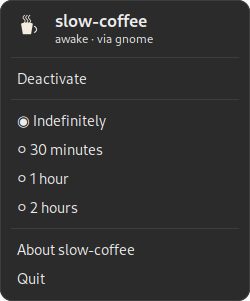
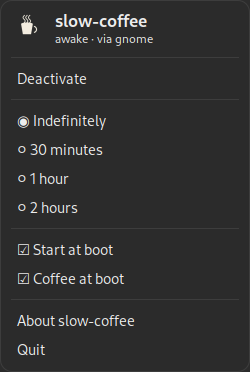
feat: Start-at-boot and Coffee-at-boot tray toggles
Two CheckMenuItems that configure the next login:
- Start at boot writes/removes the autostart .desktop entry (its presence
  is the source of truth, so the checkbox never drifts).
- Coffee at boot decides whether an autostarted launch boots caffeinated
  or decaf, rewriting the entry's Exec line; persisted in
  ~/.config/slow-coffee/settings.json and seeded from any pre-existing
  autostart entry on first run.

Lift APP_ID to the package __init__ to break the new indicator<->desktop
import cycle. Refactor the .desktop body into a shared builder so the
autostart copy can carry --start-inactive. Bump to 1.1.0.

diff --git a/slow_coffee/desktop.py b/slow_coffee/desktop.py
@@ -9,23 +9,32 @@ import os
 import shutil
 from os.path import join, dirname, abspath, exists
 
-from .indicator import APP_ID
+from . import APP_ID
 
-DESKTOP_BODY = """\
-[Desktop Entry]
-Type=Application
-Name=Slow Coffee
-GenericName=Keep Awake
-Comment=Keep your screen awake - on by default, sip at your own pace
-Exec=slow-coffee
-Icon=slow-coffee
-Terminal=false
-Categories=Utility;GTK;
-Keywords=caffeine;caffeinate;awake;idle;screensaver;inhibit;presentation;
-StartupNotify=false
-"""
 
-AUTOSTART_EXTRA = "X-GNOME-Autostart-enabled=true\n"
+def _desktop_body(exec_cmd="slow-coffee", autostart=False):
+    """Build a .desktop entry. ``exec_cmd`` lets the autostart copy encode
+    "coffee at boot" (``slow-coffee`` vs ``slow-coffee --start-inactive``)."""
+    lines = [
+        "[Desktop Entry]",
+        "Type=Application",
+        "Name=Slow Coffee",
+        "GenericName=Keep Awake",
+        "Comment=Keep your screen awake - on by default, sip at your own pace",
+        "Exec=" + exec_cmd,
+        "Icon=slow-coffee",
+        "Terminal=false",
+        "Categories=Utility;GTK;",
+        "Keywords=caffeine;caffeinate;awake;idle;screensaver;inhibit;presentation;",
+        "StartupNotify=false",
+    ]
+    if autostart:
+        lines.append("X-GNOME-Autostart-enabled=true")
+    return "\n".join(lines) + "\n"
+
+
+def _autostart_exec(start_active):
+    return "slow-coffee" if start_active else "slow-coffee --start-inactive"
 
 
 def _xdg(*parts):
@@ -42,7 +51,46 @@ def _src_icon():
     return join(dirname(abspath(__file__)), "icons", "slow-coffee-full.png")
 
 
-def install(autostart=False):
+def autostart_path():
+    """Where the "start at login" entry lives (its presence == start-at-boot on)."""
+    return _config("autostart", "slow-coffee.desktop")
+
+
+def autostart_enabled():
+    return exists(autostart_path())
+
+
+def autostart_start_active():
+    """Read whether the existing autostart entry boots caffeinated.
+
+    Parsed from its ``Exec`` line (no ``--start-inactive`` == caffeinated).
+    Defaults to True when there is no entry to read.
+    """
+    try:
+        with open(autostart_path()) as f:
+            for line in f:
+                if line.startswith("Exec="):
+                    return "--start-inactive" not in line
+    except OSError:
+        pass
+    return True
+
+
+def set_autostart(enabled, start_active=True):
+    """Create or remove the autostart entry. When creating, ``start_active``
+    picks the Exec line so the next login honours "coffee at boot".
+    Returns the path touched."""
+    path = autostart_path()
+    if enabled:
+        os.makedirs(dirname(path), exist_ok=True)
+        with open(path, "w") as f:
+            f.write(_desktop_body(exec_cmd=_autostart_exec(start_active), autostart=True))
+    elif exists(path):
+        os.remove(path)
+    return path
+
+
+def install(autostart=False, start_active=True):
     """Install the launcher + icon (+ optional autostart). Returns paths written."""
     written = []
 
@@ -54,15 +102,11 @@ def install(autostart=False):
     desktop_dst = _xdg("applications", "slow-coffee.desktop")
     os.makedirs(dirname(desktop_dst), exist_ok=True)
     with open(desktop_dst, "w") as f:
-        f.write(DESKTOP_BODY)
+        f.write(_desktop_body())
     written.append(desktop_dst)
 
     if autostart:
-        auto_dst = _config("autostart", "slow-coffee.desktop")
-        os.makedirs(dirname(auto_dst), exist_ok=True)
-        with open(auto_dst, "w") as f:
-            f.write(DESKTOP_BODY + AUTOSTART_EXTRA)
-        written.append(auto_dst)
+        written.append(set_autostart(True, start_active=start_active))
 
     # refresh the menu cache if the tool is around (best-effort)
     try:

diff --git a/slow_coffee/indicator.py b/slow_coffee/indicator.py
@@ -22,9 +22,8 @@ gi.require_version("Gtk", "3.0")
 gi.require_version("AyatanaAppIndicator3", "0.1")
 from gi.repository import Gtk, Gio, GLib, AyatanaAppIndicator3 as AppIndicator3
 
-from . import __version__
+from . import __version__, APP_ID, desktop, settings
 
-APP_ID = "slow-coffee"
 REASON = "User asked to stay awake (slow-coffee)"
 
 # GNOME SessionManager inhibit flag: 8 = "session marked idle". We deliberately
@@ -138,6 +137,10 @@ class SlowCoffee:
         self.inhibitor = Inhibitor()
         self.timer_id = None
         self.icons = find_icons_dir()
+        # Seed "coffee at boot" from any pre-existing autostart entry so the
+        # checkbox reflects reality on first run rather than clobbering it.
+        self.settings = settings.load(
+            seed={"coffee_at_boot": desktop.autostart_start_active()})
 
         self.ind = AppIndicator3.Indicator.new_with_path(
             APP_ID, "slow-coffee-empty",
@@ -170,6 +173,18 @@ class SlowCoffee:
             item.connect("activate", self.on_pick_duration, mins)
             self.duration_items.append(item)
             menu.append(item)
+
+        menu.append(Gtk.SeparatorMenuItem())
+
+        self.boot_item = Gtk.CheckMenuItem(label="Start at boot")
+        self.boot_item.set_active(desktop.autostart_enabled())
+        self.boot_item.connect("toggled", self.on_toggle_boot)
+        menu.append(self.boot_item)
+
+        self.coffee_boot_item = Gtk.CheckMenuItem(label="Coffee at boot")
+        self.coffee_boot_item.set_active(self.settings["coffee_at_boot"])
+        self.coffee_boot_item.connect("toggled", self.on_toggle_coffee_boot)
+        menu.append(self.coffee_boot_item)
 
         menu.append(Gtk.SeparatorMenuItem())
 
@@ -228,6 +243,19 @@ class SlowCoffee:
     def on_pick_duration(self, item, minutes):
         if item.get_active():
             self.activate(minutes)
+
+    def on_toggle_boot(self, item):
+        # Presence of the autostart entry IS the "start at boot" state; write it
+        # with the Exec line that honours the current "coffee at boot" choice.
+        desktop.set_autostart(item.get_active(),
+                              start_active=self.settings["coffee_at_boot"])
+
+    def on_toggle_coffee_boot(self, item):
+        self.settings["coffee_at_boot"] = item.get_active()
+        settings.save(self.settings)
+        # If we already start at boot, rewrite the entry so the next login obeys.
+        if desktop.autostart_enabled():
+            desktop.set_autostart(True, start_active=item.get_active())
 
     def _selected_minutes(self):
         for item, (_label, mins) in zip(self.duration_items, DURATIONS):

diff --git a/slow_coffee/settings.py b/slow_coffee/settings.py
@@ -1,0 +1,55 @@
+"""Tiny persisted preferences for the tray's boot toggles.
+
+Only one thing needs storing: ``coffee_at_boot`` - whether an autostart launch
+boots caffeinated (cup full) or decaf (``--start-inactive``). The *other* toggle,
+"start at boot", has a better source of truth than a settings key: the presence
+of the autostart ``.desktop`` file itself (see ``desktop.autostart_enabled``), so
+it's never stored here and never drifts from reality.
+
+Stored as JSON under ``$XDG_CONFIG_HOME`` (``~/.config/slow-coffee/settings.json``).
+Written atomically. Missing/corrupt file falls back to the defaults.
+"""
+
+import json
+import os
+from os.path import join, dirname, exists
+
+DEFAULTS = {"coffee_at_boot": True}
+
+
+def path():
+    base = os.environ.get("XDG_CONFIG_HOME") or os.path.expanduser("~/.config")
+    return join(base, "slow-coffee", "settings.json")
+
+
+def load(seed=None):
+    """Return the settings dict (defaults merged with whatever is on disk).
+
+    ``seed`` supplies fallbacks for keys absent from BOTH the file and the
+    defaults' caller intent - used on first run to inherit the state of a
+    pre-existing autostart entry rather than clobbering it with a bare default.
+    """
+    data = {}
+    try:
+        with open(path()) as f:
+            data = json.load(f)
+    except (OSError, ValueError):
+        data = {}
+    merged = dict(DEFAULTS)
+    if seed:
+        merged.update({k: bool(seed[k]) for k in DEFAULTS if k in seed})
+    merged.update({k: bool(data[k]) for k in DEFAULTS if k in data})
+    return merged
+
+
+def save(settings):
+    """Persist the given settings (only known keys), atomically. Returns the merged dict."""
+    p = path()
+    os.makedirs(dirname(p), exist_ok=True)
+    merged = {k: bool(settings.get(k, DEFAULTS[k])) for k in DEFAULTS}
+    tmp = p + ".tmp"
+    with open(tmp, "w") as f:
+        json.dump(merged, f, indent=2)
+        f.write("\n")
+    os.replace(tmp, p)
+    return merged

diff --git a/docs/render_menu.py b/docs/render_menu.py
@@ -78,6 +78,10 @@ def build():
         box.pack_start(lbl(bullet + label, "sc-row", cls), False, False, 0)
 
     box.pack_start(sep(), False, False, 0)
+    box.pack_start(lbl("☑ Start at boot", "sc-row", "sc-row-on"), False, False, 0)
+    box.pack_start(lbl("☑ Coffee at boot", "sc-row", "sc-row-on"), False, False, 0)
+
+    box.pack_start(sep(), False, False, 0)
     box.pack_start(lbl("About slow-coffee", "sc-row", "sc-dim"), False, False, 0)
     box.pack_start(lbl("Quit", "sc-row", "sc-dim"), False, False, 0)
     return box

diff --git a/slow_coffee/__main__.py b/slow_coffee/__main__.py
@@ -55,7 +55,8 @@ def main(argv=None):
 
     if args.install_desktop:
         from . import desktop
-        written = desktop.install(autostart=args.autostart)
+        written = desktop.install(autostart=args.autostart,
+                                  start_active=not args.start_inactive)
         print("Installed:")
         for path in written:
             print("  +", path)

diff --git a/slow_coffee/__init__.py b/slow_coffee/__init__.py
@@ -1,3 +1,7 @@
 """slow-coffee - a take-your-time keep-awake indicator for the system tray."""
 
-__version__ = "1.0.0"
+__version__ = "1.1.0"
+
+# Package identity, shared by the indicator and the desktop-integration helper
+# (kept here to avoid an indicator<->desktop import cycle).
+APP_ID = "slow-coffee"

diff --git a/CHANGELOG.md b/CHANGELOG.md
@@ -4,6 +4,18 @@ All notable changes to slow-coffee are documented here.
 Format follows [Keep a Changelog](https://keepachangelog.com/); versioning is
 [SemVer](https://semver.org/).
 
+## [1.1.0] - 2026-07-07
+
+### Added
+- Two boot toggles in the tray menu: **Start at boot** (writes/removes the
+  autostart `.desktop` entry) and **Coffee at boot** (whether an autostarted
+  launch boots caffeinated or decaf). The checkbox equivalents of `--autostart`
+  and `--start-inactive`.
+- The "coffee at boot" choice persists in `~/.config/slow-coffee/settings.json`;
+  "start at boot" is read from (and written to) the autostart entry itself, so
+  the checkboxes never drift from reality. On first run the "coffee at boot"
+  state is seeded from any pre-existing autostart entry.
+
 ## [1.0.0] - 2026-06-25
 
 First release.
@@ -22,4 +34,5 @@ First release.
   and icon under your XDG dirs, no root required; `--autostart` adds login start.
 - Packaging: PyPI (pip), Arch AUR (PKGBUILD), Debian/Ubuntu (.deb).
 
+[1.1.0]: https://github.com/PLNech/slow-coffee/releases/tag/v1.1.0
 [1.0.0]: https://github.com/PLNech/slow-coffee/releases/tag/v1.0.0

diff --git a/README.md b/README.md
@@ -84,7 +84,15 @@ cup appears in the tray, already caffeinated. Click it for the menu:
 |------|------|
 | Activate / Deactivate | Toggle the inhibitor by hand |
 | Indefinitely / 30 min / 1 h / 2 h | Pick a duration; it auto-stops when time is up |
+| Start at boot | Add/remove the autostart entry - launch slow-coffee at login |
+| Coffee at boot | When autostarted, boot caffeinated (off = boot decaf) |
 | About / Quit | The usual |
+
+**Start at boot** and **Coffee at boot** are the checkbox equivalents of
+`--autostart` and `--start-inactive`: the first writes (or removes) the
+autostart `.desktop` entry, the second decides whether that entry launches
+caffeinated. They configure the *next* login, not the running cup, and the
+"coffee at boot" choice is remembered in `~/.config/slow-coffee/settings.json`.
 
 ```sh
 slow-coffee                  # start caffeinated, forever
